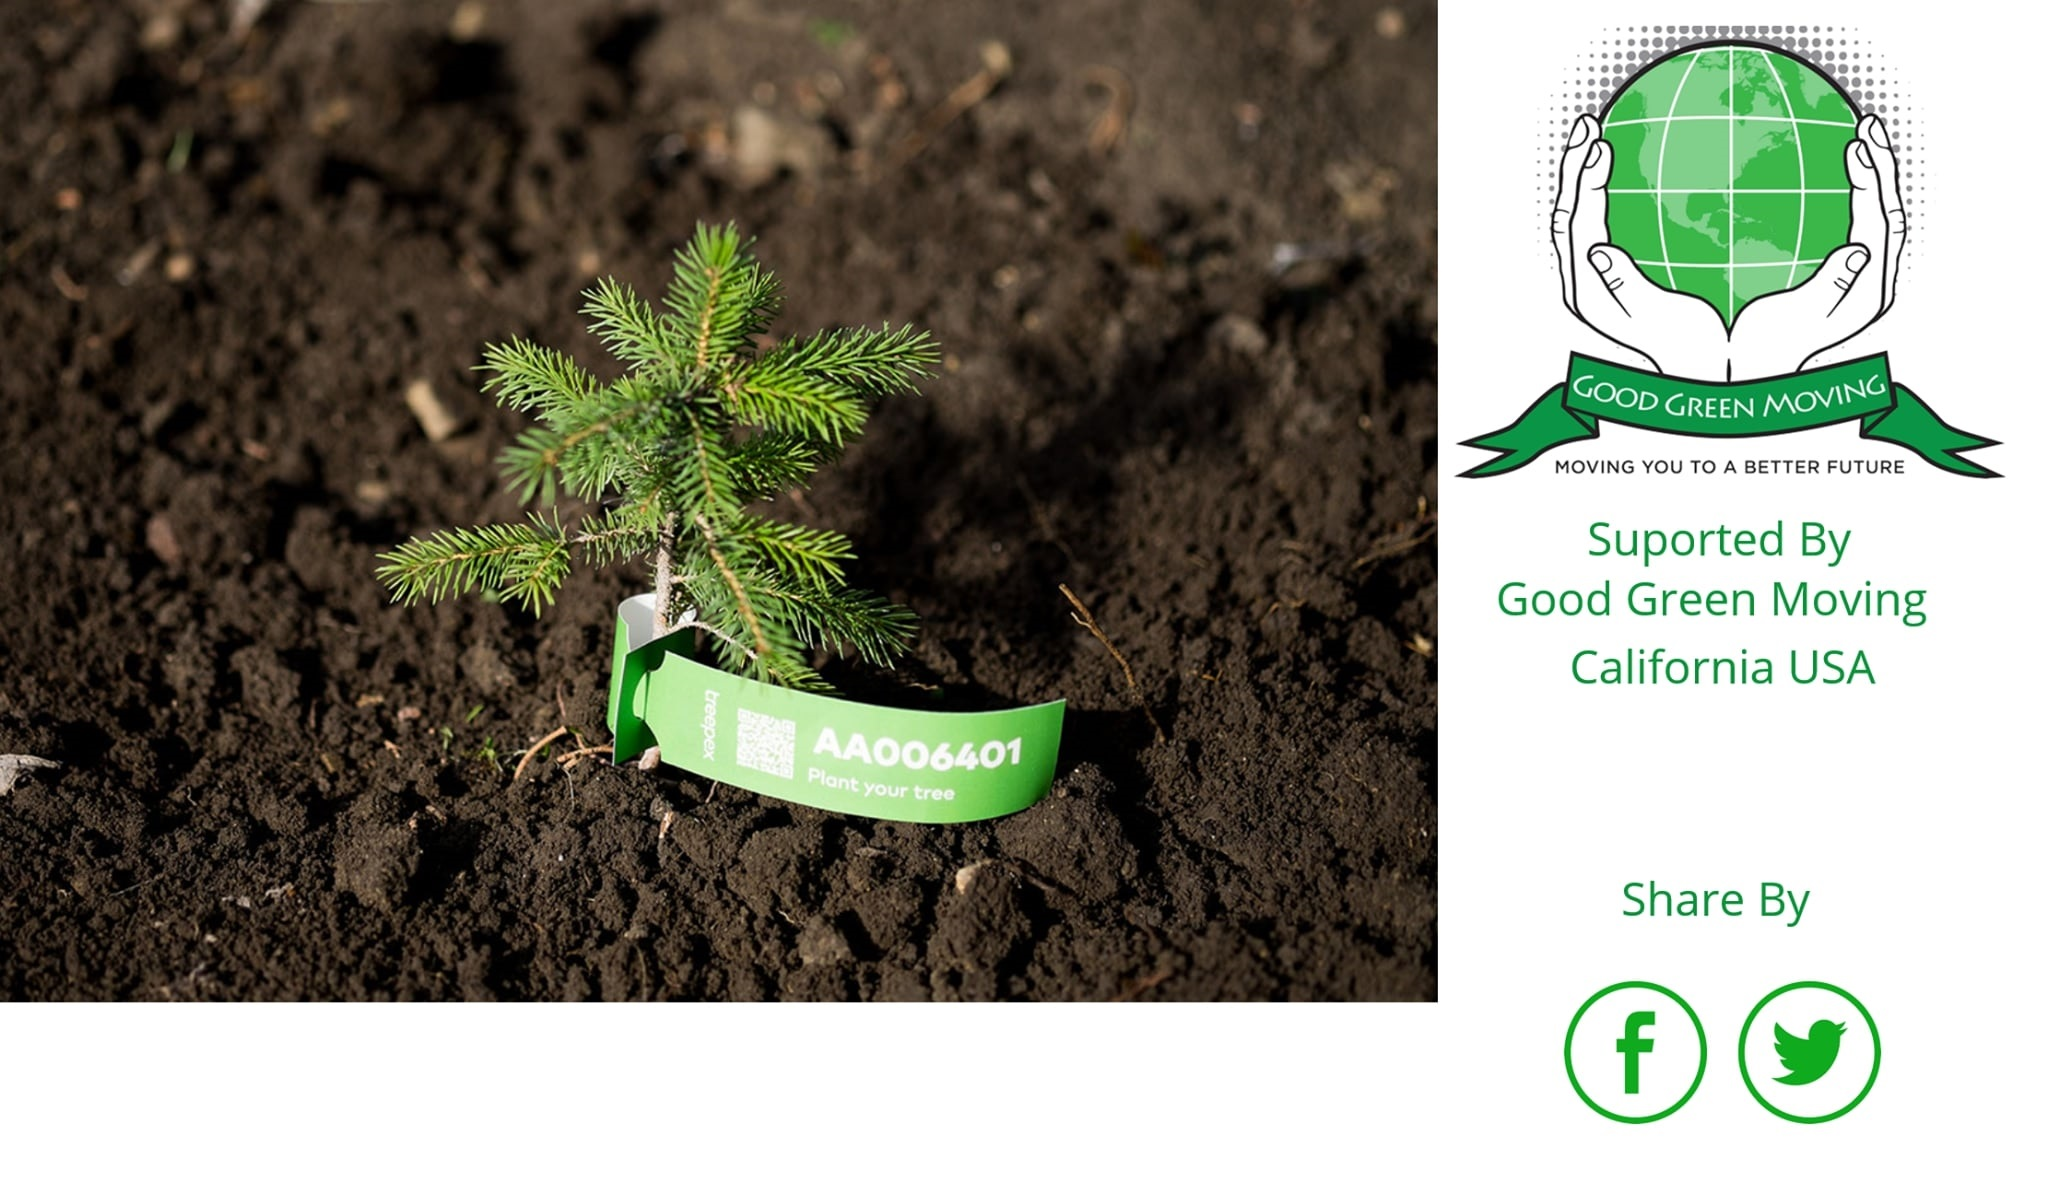
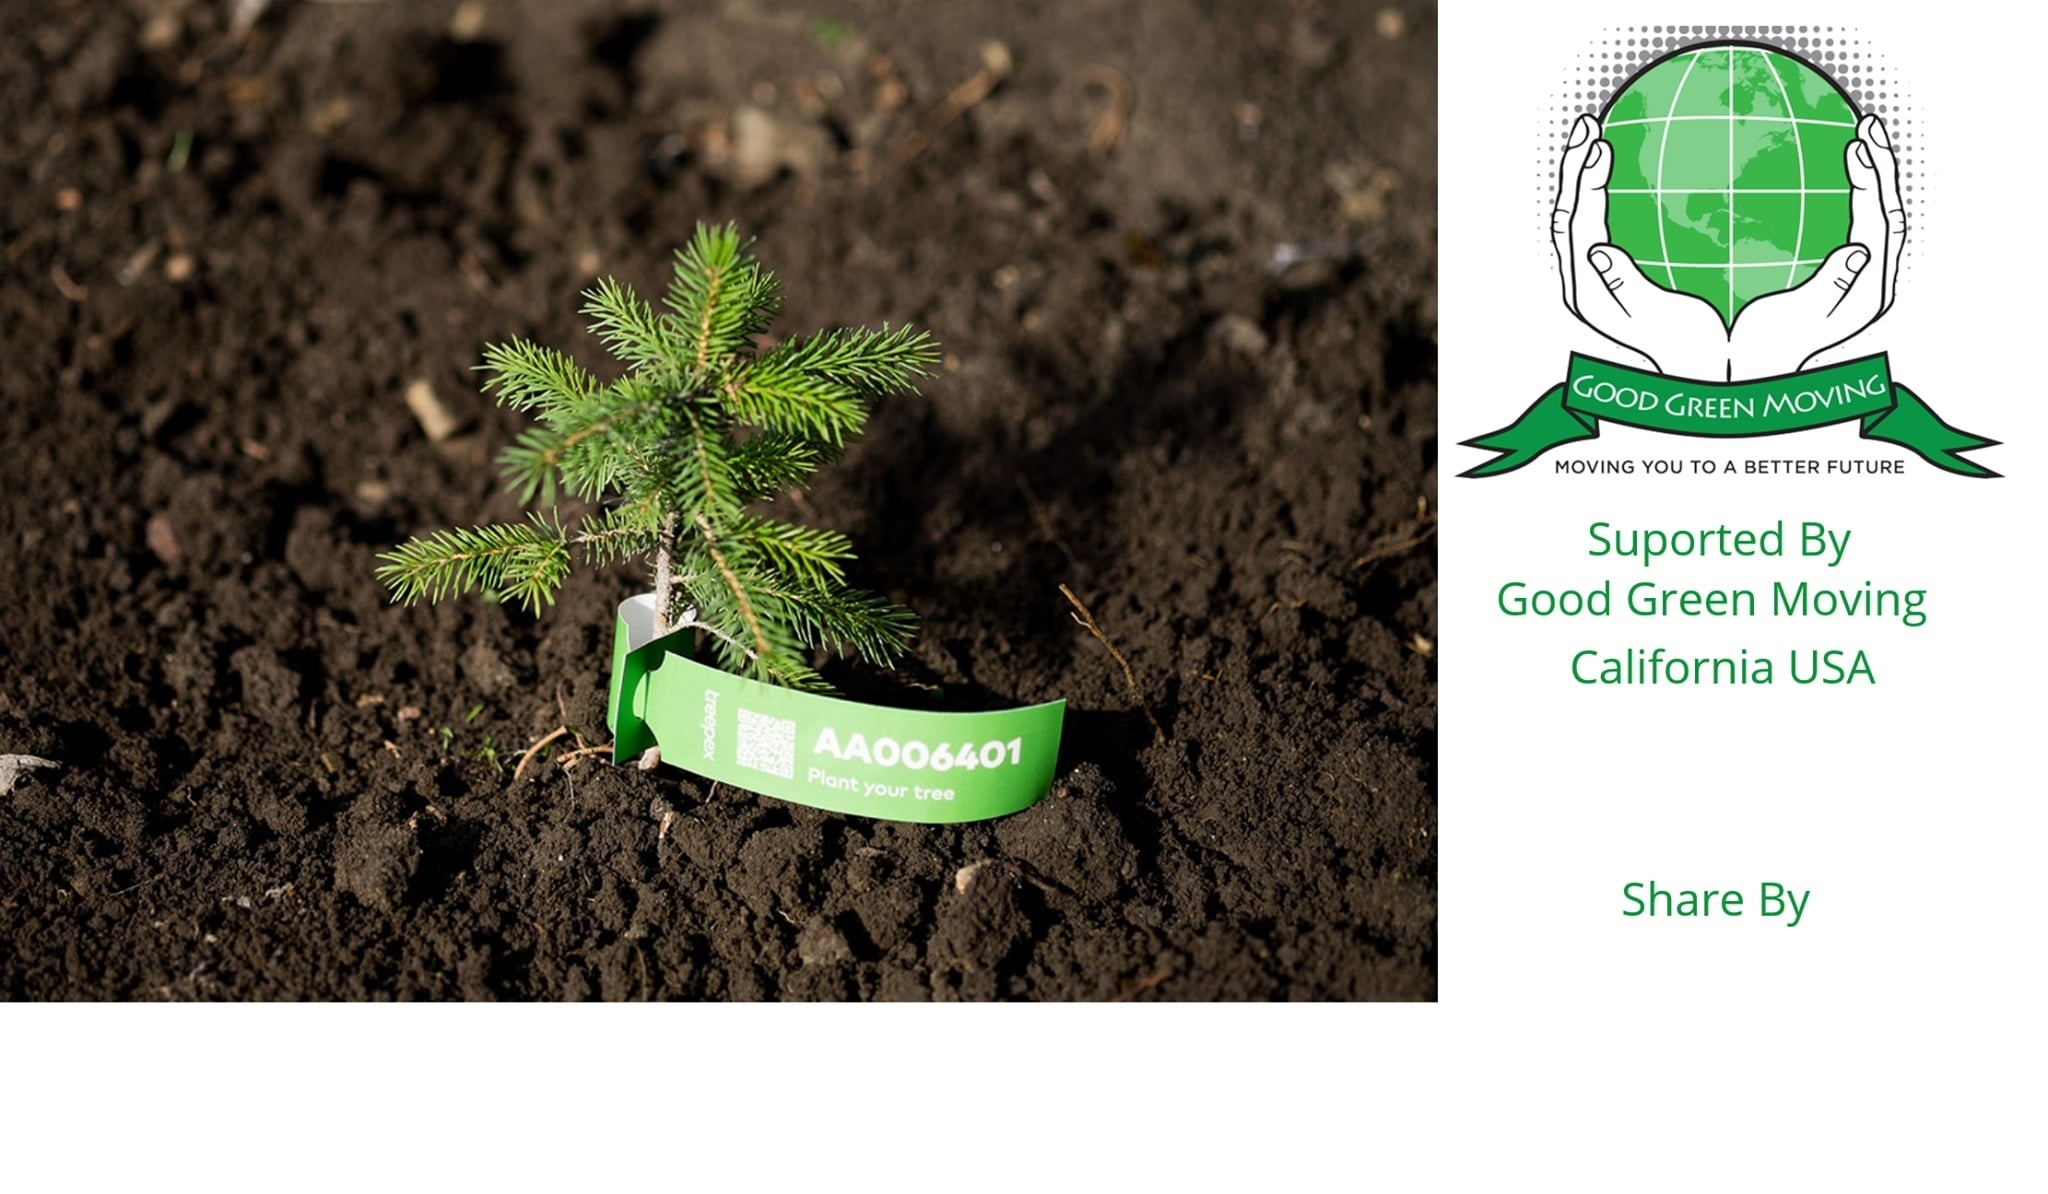
images changed

Changed region(s): [[0.75, 0.8057, 0.9375, 0.9606]]

diff --git a/index.html b/index.html
@@ -129,17 +129,13 @@
 				<img id='my_image' src='resources/images/Twitter.png' alt='image' width="auto" height="40" onclick="twitt_click(this)" />
 				<div id="Name" style="position: relative; width: 100%; height: 100%; left: 25px; top: -72px;"></div>
 				<div id="Date" style="position: relative; width: 100%; height: 100%; left: 220px; top: -134px;"></div>
-
 			</div>
-
 		</div>
 
 
 		<script src="https://cdnjs.cloudflare.com/ajax/libs/html2canvas/0.4.1/html2canvas.min.js"></script>
 
 		<script>
-
-
 
 			function get_url() {
 				var url_string = document.URL;
@@ -202,9 +198,10 @@
 
 
 			function go_to_tree(tree_obj) {// _goder
+			
+				this.screenshot();
 
 				let final_postion = tree_obj.mesh_obj.position;
-
 				pin_image.style.right = "0px";
 				let person_name = document.getElementById("Name");
 				let plant_date = document.getElementById("Date");
@@ -232,6 +229,8 @@
 			var image_url;
 
 			function screenshot() { // take shortcut
+				
+				
 				console.log("screenshot1");
 				html2canvas(document.querySelector("#pin_image"), {
 					onrendered: function (canvas) {
@@ -240,8 +239,10 @@
 						img.src = pngUrl;
 						image_url = pngUrl;
 						let image = convertURIToImageData(pngUrl);
+
+					
 						//fbs_click(image_url);
-						publishOnFacebook(image);
+					
 						console.log("image : ", pngUrl);
 						//ავტვირთოთ ბაზაზე და ისე გავაზიაროთ? ფეისბუქი მარტო ლინკს იღებს
 					},
